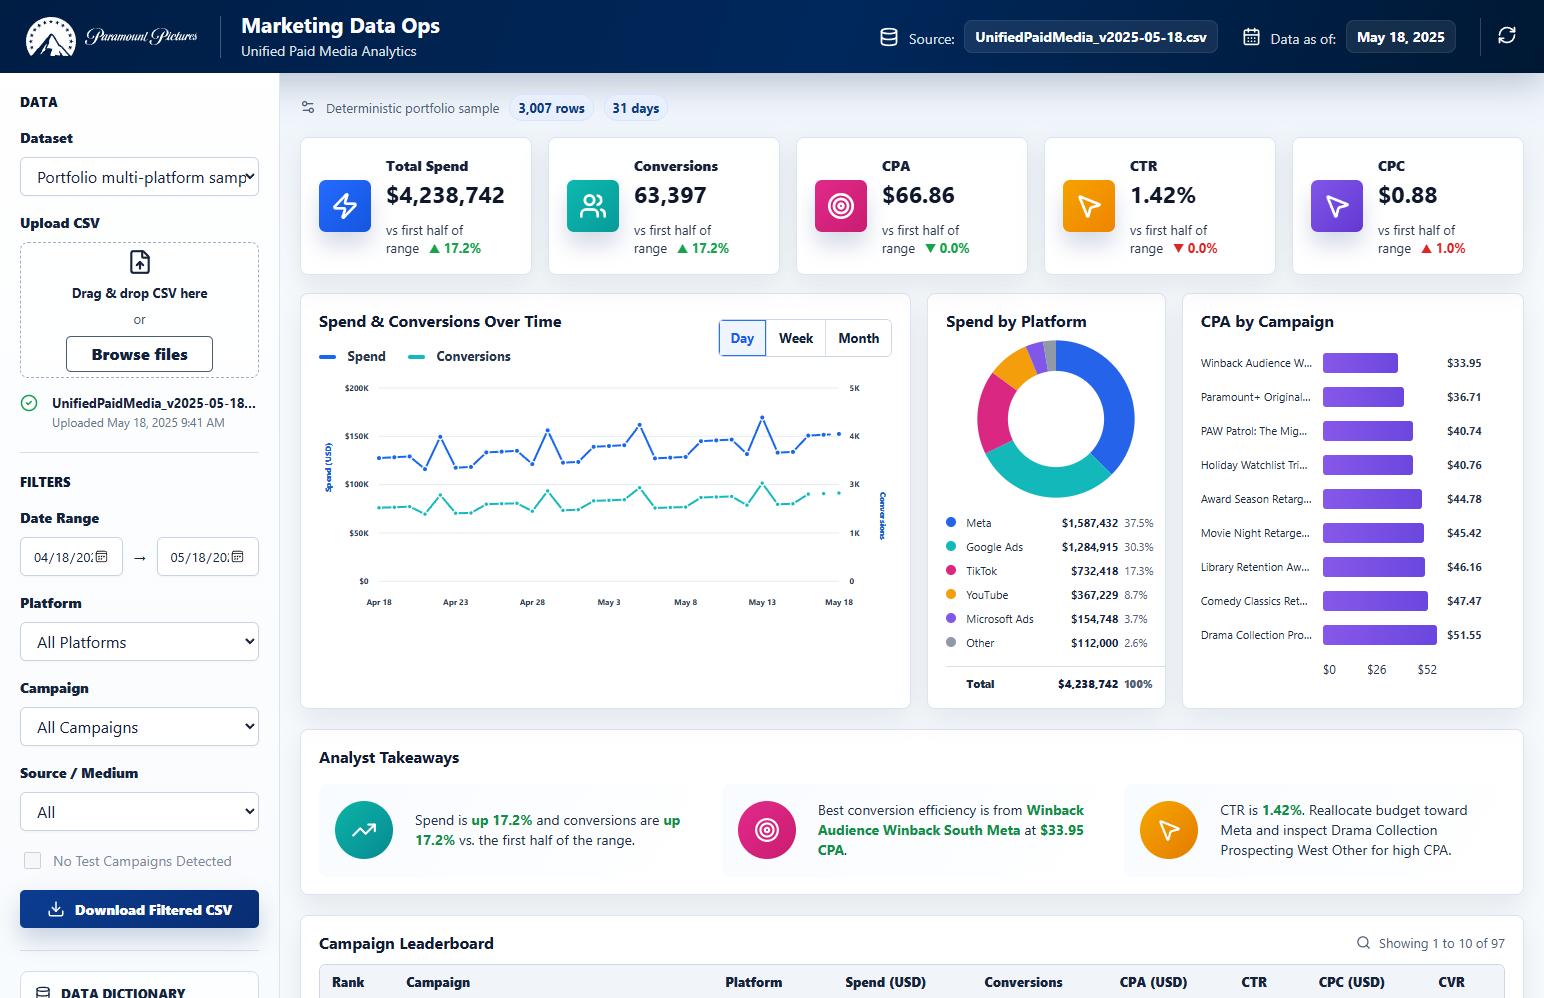
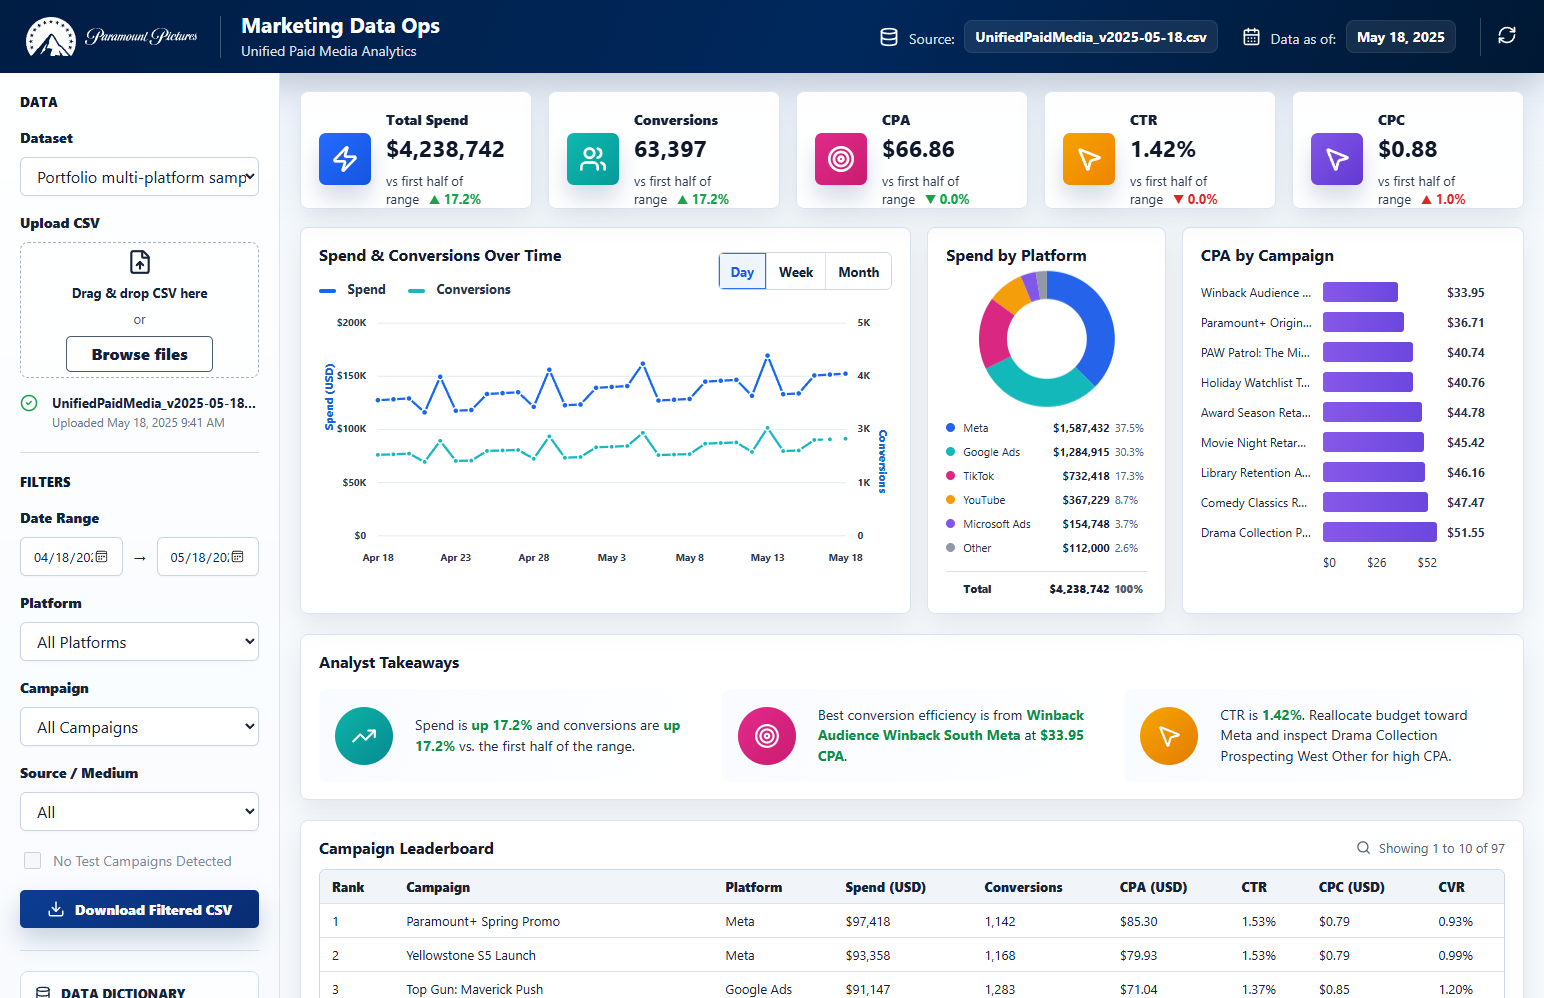
Restore fluid dashboard layout

diff --git a/src/App.jsx b/src/App.jsx
@@ -415,13 +415,14 @@ const KpiCard = memo(function KpiCard({ accent, delta, iconKey, label, value, su
 });
 
 const LineComboChart = memo(function LineComboChart({ data, granularity }) {
-  const width = 860;
-  const height = 360;
-  const pad = { top: 24, right: 80, bottom: 46, left: 90 };
+  const width = 760;
+  const height = 350;
+  const pad = { top: 24, right: 62, bottom: 44, left: 78 };
   const innerW = width - pad.left - pad.right;
   const innerH = height - pad.top - pad.bottom;
   const maxSpend = niceAxisMax(Math.max(...data.map((day) => day.spend), 1));
   const maxConversions = niceAxisMax(Math.max(...data.map((day) => day.conversions), 1));
+  const plotCenterY = pad.top + innerH / 2;
   const x = (index) => pad.left + (index / Math.max(1, data.length - 1)) * innerW;
   const ySpend = (value) => pad.top + innerH - (value / maxSpend) * innerH;
   const yConversions = (value) => pad.top + innerH - (value / maxConversions) * innerH;
@@ -456,14 +457,14 @@ const LineComboChart = memo(function LineComboChart({ data, granularity }) {
           </g>
         );
       })}
-      <text x={18} y={height / 2} className="axis-title" transform={`rotate(-90 18 ${height / 2})`}>
+      <text x={18} y={plotCenterY} className="axis-title" transform={`rotate(-90 18 ${plotCenterY})`}>
         Spend (USD)
       </text>
       <text
         x={width - 18}
-        y={height / 2}
+        y={plotCenterY}
         className="axis-title conversions"
-        transform={`rotate(90 ${width - 18} ${height / 2})`}
+        transform={`rotate(90 ${width - 18} ${plotCenterY})`}
       >
         Conversions
       </text>
@@ -1108,78 +1109,78 @@ export default function App() {
           </div>
 
           <div className="kpi-grid">
-            <KpiCard
-              accent="linear-gradient(135deg,#246bff,#1555df)"
-              delta={deltas.spend}
-              iconKey="spend"
-              label="Total Spend"
-              value={formatCurrency(summary.spend)}
-            />
-            <KpiCard
-              accent="linear-gradient(135deg,#0db9af,#079b9a)"
-              delta={deltas.conversions}
-              iconKey="conversions"
-              label="Conversions"
-              value={formatNumber(summary.conversions)}
-            />
-            <KpiCard
-              accent="linear-gradient(135deg,#e12a8a,#c91c71)"
-              delta={deltas.cpa}
-              iconKey="cpa"
-              label="CPA"
-              value={formatCurrency(summary.cpa, 2)}
-            />
-            <KpiCard
-              accent="linear-gradient(135deg,#f5a300,#ef8400)"
-              delta={deltas.ctr}
-              iconKey="ctr"
-              label="CTR"
-              value={formatPercent(summary.ctr)}
-            />
-            <KpiCard
-              accent="linear-gradient(135deg,#8057e8,#6338d2)"
-              delta={deltas.cpc}
-              iconKey="cpc"
-              label="CPC"
-              value={formatCurrency(summary.cpc, 2)}
-            />
+              <KpiCard
+                accent="linear-gradient(135deg,#246bff,#1555df)"
+                delta={deltas.spend}
+                iconKey="spend"
+                label="Total Spend"
+                value={formatCurrency(summary.spend)}
+              />
+              <KpiCard
+                accent="linear-gradient(135deg,#0db9af,#079b9a)"
+                delta={deltas.conversions}
+                iconKey="conversions"
+                label="Conversions"
+                value={formatNumber(summary.conversions)}
+              />
+              <KpiCard
+                accent="linear-gradient(135deg,#e12a8a,#c91c71)"
+                delta={deltas.cpa}
+                iconKey="cpa"
+                label="CPA"
+                value={formatCurrency(summary.cpa, 2)}
+              />
+              <KpiCard
+                accent="linear-gradient(135deg,#f5a300,#ef8400)"
+                delta={deltas.ctr}
+                iconKey="ctr"
+                label="CTR"
+                value={formatPercent(summary.ctr)}
+              />
+              <KpiCard
+                accent="linear-gradient(135deg,#8057e8,#6338d2)"
+                delta={deltas.cpc}
+                iconKey="cpc"
+                label="CPC"
+                value={formatCurrency(summary.cpc, 2)}
+              />
           </div>
 
           <section className="chart-grid">
-            <article className="panel trend-panel">
-              <div className="panel-title-row">
-                <div>
-                  <h2>Spend & Conversions Over Time</h2>
-                  <div className="legend-inline">
-                    <span><i className="blue" /> Spend</span>
-                    <span><i className="teal" /> Conversions</span>
+              <article className="panel trend-panel">
+                <div className="panel-title-row">
+                  <div>
+                    <h2>Spend & Conversions Over Time</h2>
+                    <div className="legend-inline">
+                      <span><i className="blue" /> Spend</span>
+                      <span><i className="teal" /> Conversions</span>
+                    </div>
+                  </div>
+                  <div className="segmented">
+                    {availableGranularities.map((item) => (
+                      <button
+                        className={granularity === item ? "active" : ""}
+                        key={item}
+                        onClick={() => handleGranularityChange(item)}
+                        aria-pressed={granularity === item}
+                      >
+                        {item[0].toUpperCase() + item.slice(1)}
+                      </button>
+                    ))}
                   </div>
                 </div>
-                <div className="segmented">
-                  {availableGranularities.map((item) => (
-                    <button
-                      className={granularity === item ? "active" : ""}
-                      key={item}
-                      onClick={() => handleGranularityChange(item)}
-                      aria-pressed={granularity === item}
-                    >
-                      {item[0].toUpperCase() + item.slice(1)}
-                    </button>
-                  ))}
-                </div>
-              </div>
-              <LineComboChart data={daily} granularity={granularity} />
-            </article>
+                <LineComboChart data={daily} granularity={granularity} />
+              </article>
 
-            <article className="panel platform-panel">
-              <h2>Spend by Platform</h2>
-              <DonutChart data={platformSpend} />
-            </article>
+              <article className="panel platform-panel">
+                <h2>Spend by Platform</h2>
+                <DonutChart data={platformSpend} />
+              </article>
 
-            <article className="panel cpa-panel">
-              <h2>CPA by Campaign</h2>
-              <CpaBars campaigns={campaigns} />
-            </article>
+              <article className="panel cpa-panel">
+                <h2>CPA by Campaign</h2>
+                <CpaBars campaigns={campaigns} />
+              </article>
           </section>
 
           <Takeaways summary={summary} campaigns={campaigns} platforms={platformSpend} deltas={deltas} />

diff --git a/src/styles.css b/src/styles.css
@@ -389,13 +389,7 @@ button:disabled {
 }
 
 .dataset-note {
-  min-height: 32px;
-  display: flex;
-  align-items: center;
-  gap: 10px;
-  color: #4c5f77;
-  font-size: 13px;
-  margin-bottom: 14px;
+  display: none;
 }
 
 .dataset-note b {
@@ -421,6 +415,7 @@ button:disabled {
 }
 
 .kpi-card {
+  height: 118px;
   min-height: 118px;
   border-radius: 8px;
   padding: 18px;
@@ -458,7 +453,7 @@ button:disabled {
 }
 
 .kpi-copy p {
-  margin: 15px 0 0;
+  margin: 12px 0 0;
   color: #27354d;
   font-size: 13px;
   line-height: 1.35;
@@ -482,6 +477,10 @@ button:disabled {
   grid-template-columns: minmax(430px, 2fr) minmax(210px, 0.78fr) minmax(280px, 1.12fr);
   gap: 16px;
   align-items: stretch;
+}
+
+.chart-grid > .panel {
+  min-height: 360px;
 }
 
 .panel {
@@ -559,13 +558,15 @@ button:disabled {
 }
 
 .trend-panel {
-  min-height: 360px;
+  display: flex;
+  flex-direction: column;
+  min-height: 0;
 }
 
 .trend-chart {
   width: 100%;
   height: auto;
-  aspect-ratio: 860 / 360;
+  aspect-ratio: 760 / 350;
   margin-top: 8px;
   display: block;
 }
@@ -577,13 +578,13 @@ button:disabled {
 
 .axis-label {
   fill: #283950;
-  font-size: 12px;
-  font-weight: 750;
+  font-size: 13px;
+  font-weight: 700;
 }
 
 .axis-title {
   fill: #1d61d9;
-  font-size: 12px;
+  font-size: 14px;
   font-weight: 850;
 }
 
@@ -625,13 +626,13 @@ button:disabled {
 
 .donut-layout {
   display: grid;
-  gap: 8px;
+  gap: 6px;
   place-items: center;
 }
 
 .donut {
-  width: 176px;
-  height: 176px;
+  width: clamp(122px, 9.7vw, 150px);
+  height: clamp(122px, 9.7vw, 150px);
   transform: rotate(-90deg);
   overflow: visible;
 }
@@ -639,12 +640,12 @@ button:disabled {
 .donut-track {
   fill: none;
   stroke: #e6edf5;
-  stroke-width: 26;
+  stroke-width: 28;
 }
 
 .donut-segment {
   fill: none;
-  stroke-width: 26;
+  stroke-width: 28;
   transition: stroke-dasharray 420ms ease, stroke-dashoffset 420ms ease;
 }
 
@@ -656,16 +657,16 @@ button:disabled {
 
 .legend-row {
   display: grid;
-  grid-template-columns: 14px minmax(70px, 1fr) minmax(76px, auto) 42px;
-  gap: 6px;
+  grid-template-columns: 12px minmax(54px, 1fr) minmax(58px, auto) 32px;
+  gap: 5px;
   align-items: center;
   color: #1f2d43;
   font-size: 11px;
 }
 
 .legend-dot {
-  width: 10px;
-  height: 10px;
+  width: 9px;
+  height: 9px;
   border-radius: 50%;
 }
 
@@ -687,9 +688,9 @@ button:disabled {
 }
 
 .bar-list {
-  margin-top: 22px;
+  margin-top: 18px;
   display: grid;
-  gap: 14px;
+  gap: 10px;
 }
 
 .bar-row {
@@ -697,7 +698,7 @@ button:disabled {
   grid-template-columns: minmax(112px, 1.05fr) minmax(96px, 1.55fr) 58px;
   gap: 10px;
   align-items: center;
-  font-size: 11px;
+  font-size: 12px;
   color: #1b2940;
 }
 
@@ -723,7 +724,7 @@ button:disabled {
 
 .bar-row b {
   color: #26344b;
-  font-size: 11px;
+  font-size: 12px;
 }
 
 .bar-axis {
@@ -1036,6 +1037,7 @@ tr:last-child td {
   }
 
   .kpi-card {
+    height: auto;
     min-height: 112px;
   }
 
